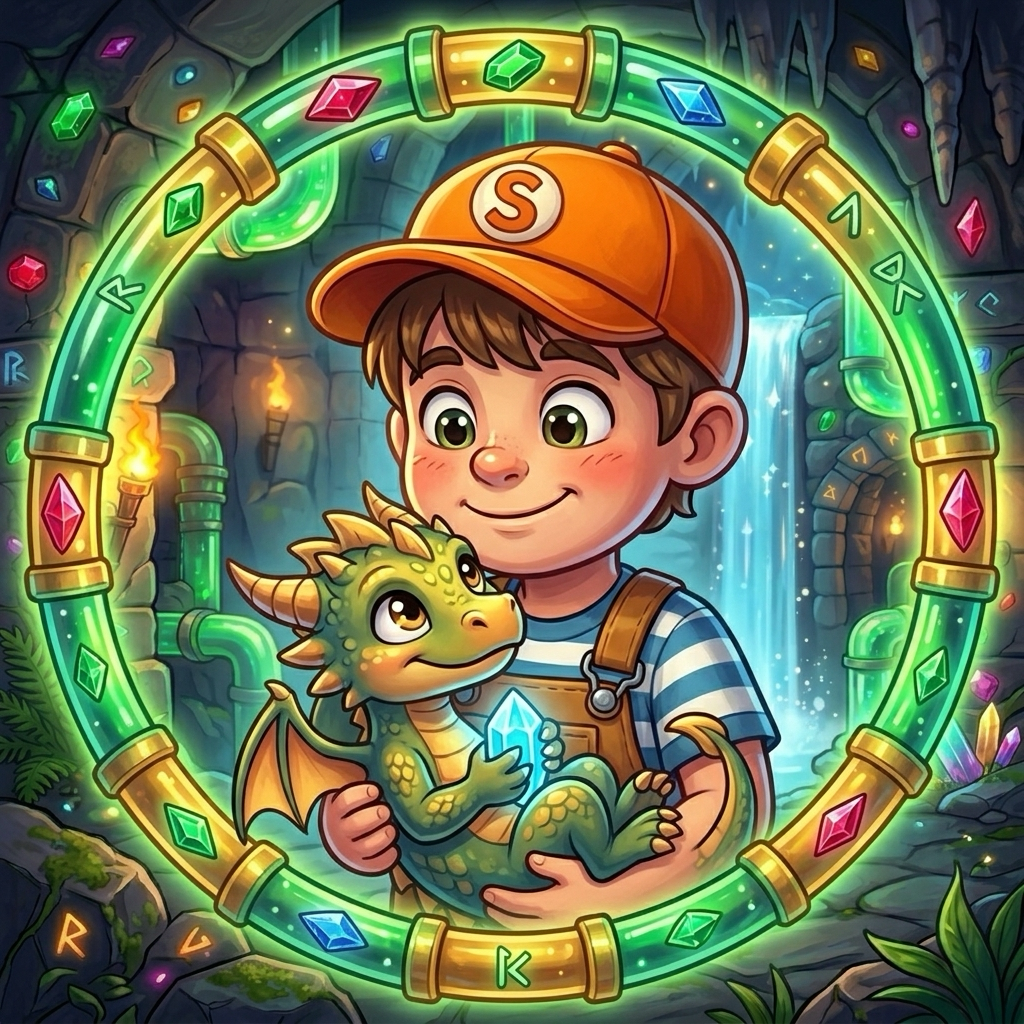
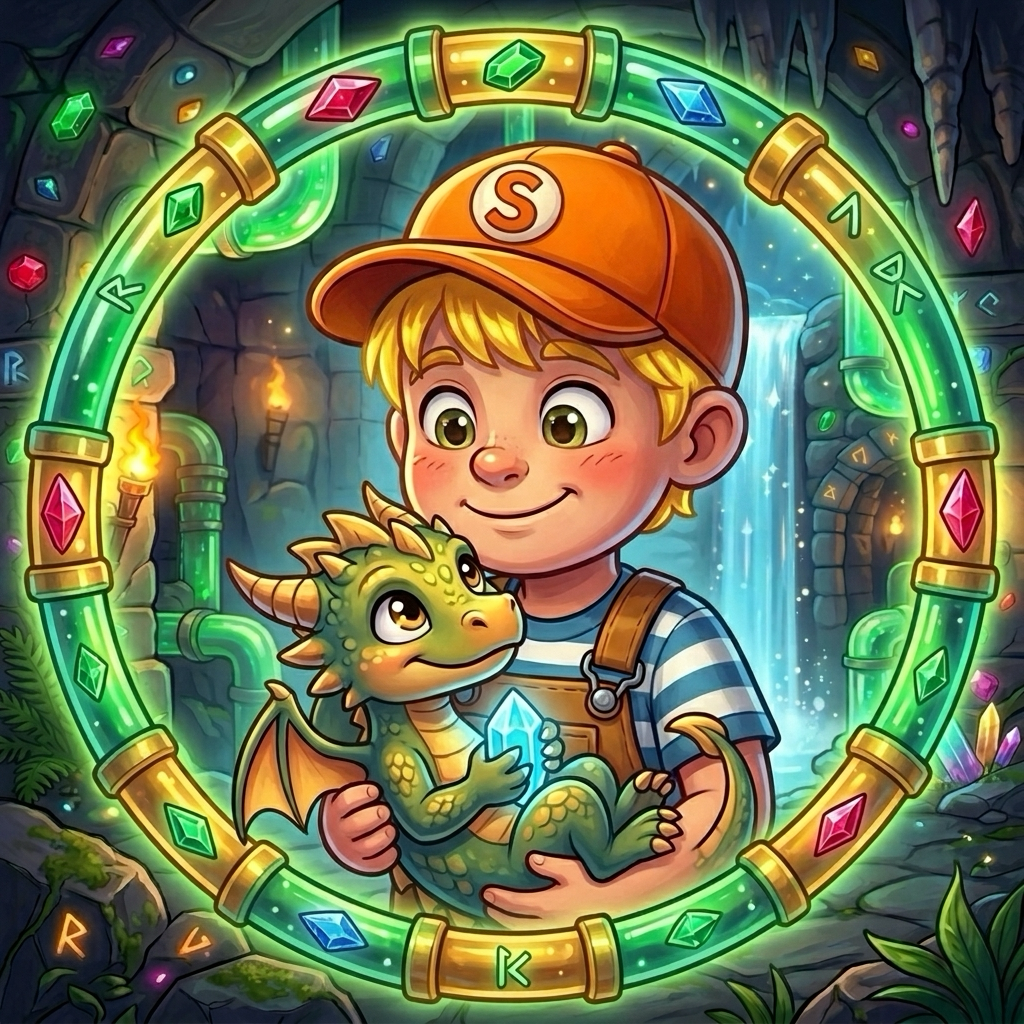
feat(goodies): add new circular badges collection and bump version to 2.8.1

diff --git a/test/logic/goodies_assigner_test.dart b/test/logic/goodies_assigner_test.dart
@@ -6,8 +6,11 @@ import 'package:tubature/models/level.dart';
 
 void main() {
   group('CauldronGoodiesCatalog', () {
-    test('standardGoodies has exactly 8 entries', () {
-      expect(CauldronGoodiesCatalog.standardGoodies.length, 8);
+    test('standardGoodies contains all non-legendary entries', () {
+      expect(CauldronGoodiesCatalog.standardGoodies.length,
+          CauldronGoodiesCatalog.common.length +
+              CauldronGoodiesCatalog.uncommon.length +
+              CauldronGoodiesCatalog.rare.length);
     });
 
     test('legendary has exactly 1 entry (Schmoogle)', () {
@@ -15,8 +18,10 @@ void main() {
       expect(CauldronGoodiesCatalog.legendary.first.id, 'schmoogle');
     });
 
-    test('all has exactly 9 entries', () {
-      expect(CauldronGoodiesCatalog.all.length, 9);
+    test('all matches standardGoodies plus legendary', () {
+      expect(CauldronGoodiesCatalog.all.length,
+          CauldronGoodiesCatalog.standardGoodies.length +
+              CauldronGoodiesCatalog.legendary.length);
     });
   });
 
@@ -42,13 +47,13 @@ void main() {
     });
 
     test('when deadEndCount > standardGoodies.length, wraps around gracefully', () {
-      final goodies = GoodiesAssigner.assignGoodies(10, Difficulty.easy);
-      expect(goodies.length, 10);
+      final goodies = GoodiesAssigner.assignGoodies(25, Difficulty.easy);
+      expect(goodies.length, 25);
       expect(goodies.any((g) => g.isLegendary), isFalse);
     });
 
     test('Schmoogle NEVER appears on Easy or Medium difficulty', () {
-      final random = _FakeRandom(0.005);
+      final random = _FakeRandom(0);
       final easyGoodies = GoodiesAssigner.assignGoodies(5, Difficulty.easy, random: random);
       final mediumGoodies = GoodiesAssigner.assignGoodies(5, Difficulty.medium, random: random);
       
@@ -56,8 +61,10 @@ void main() {
       expect(mediumGoodies.any((g) => g.isLegendary), isFalse);
     });
 
-    test('with seeded Random where value < 0.01, Schmoogle appears on Hard', () {
-      final fakeRandom = _FakeRandom(0.005);
+    test('with seeded Random rolling highest weight index, Schmoogle appears on Hard', () {
+      // Schmoogle is at the end of the pool on Hard mode
+      // Roll sequence: [9999 (hits Schmoogle), 0 (hits ruby), 15 (hits dragon)]
+      final fakeRandom = _SequenceRandom();
       final goodies = GoodiesAssigner.assignGoodies(3, Difficulty.hard, random: fakeRandom);
       
       expect(goodies.any((g) => g.isLegendary), isTrue);
@@ -68,15 +75,36 @@ void main() {
 }
 
 class _FakeRandom implements Random {
-  final double nextDoubleValue;
-  _FakeRandom(this.nextDoubleValue);
+  final int fixedInt;
+  _FakeRandom([this.fixedInt = 0]);
   
   @override
   bool nextBool() => true;
   
   @override
-  double nextDouble() => nextDoubleValue;
+  double nextDouble() => 0.0;
   
   @override
-  int nextInt(int max) => 0; // Always swap with index 0 in shuffle
+  int nextInt(int max) => fixedInt % max;
+}
+
+class _SequenceRandom implements Random {
+  int _idx = 0;
+  
+  @override
+  bool nextBool() => true;
+  
+  @override
+  double nextDouble() => 0.0;
+  
+  @override
+  int nextInt(int max) {
+    if (_idx == 0) {
+      _idx++;
+      return max - 1; // Pick Schmoogle (last element)
+    }
+    final val = (_idx * 15) % max;
+    _idx++;
+    return val;
+  }
 }

diff --git a/lib/models/cauldron_goodies_catalog.dart b/lib/models/cauldron_goodies_catalog.dart
@@ -59,6 +59,34 @@ class CauldronGoodiesCatalog {
       rarity: GoodieRarity.common,
       audioPath: 'assets/sounds/good-quality/maial_basso_5st_fast_b.mp3',
     ),
+    CauldronGoodie(
+      id: 'e-le-fante',
+      assetPath: 'assets/goodies/e-le-fante.png',
+      displayName: 'E-Le-Fante',
+      emoji: '🐘',
+      rarity: GoodieRarity.common,
+    ),
+    CauldronGoodie(
+      id: 'coccodrillo',
+      assetPath: 'assets/goodies/coccodrillo.png',
+      displayName: 'Coccodrillo Chill',
+      emoji: '🐊',
+      rarity: GoodieRarity.common,
+    ),
+    CauldronGoodie(
+      id: 'giraffa',
+      assetPath: 'assets/goodies/giraffa.png',
+      displayName: 'Giraffa Boxer',
+      emoji: '🦒',
+      rarity: GoodieRarity.common,
+    ),
+    CauldronGoodie(
+      id: 'rinoceronte',
+      assetPath: 'assets/goodies/rinoceronte.png',
+      displayName: 'Rinoceronte Cucciolo',
+      emoji: '🦏',
+      rarity: GoodieRarity.common,
+    ),
   ];
 
   // ─── UNCOMMON (weight 5) ───
@@ -75,6 +103,13 @@ class CauldronGoodiesCatalog {
       assetPath: 'assets/goodies/sebi.png',
       displayName: 'Sebi',
       emoji: '👦',
+      rarity: GoodieRarity.uncommon,
+    ),
+    CauldronGoodie(
+      id: 'salama',
+      assetPath: 'assets/goodies/salama.png',
+      displayName: 'Salama da Sugo',
+      emoji: '🧆',
       rarity: GoodieRarity.uncommon,
     ),
     CauldronGoodie(
@@ -95,6 +130,27 @@ class CauldronGoodiesCatalog {
 
   // ─── RARE (weight 2) ───
   static const List<CauldronGoodie> rare = [
+    CauldronGoodie(
+      id: 'acquario',
+      assetPath: 'assets/goodies/acquario.png',
+      displayName: 'Acquario d\'Oro',
+      emoji: '♒',
+      rarity: GoodieRarity.rare,
+    ),
+    CauldronGoodie(
+      id: 'fratelli',
+      assetPath: 'assets/goodies/fratelli.png',
+      displayName: 'Ale & Sebi',
+      emoji: '🫂',
+      rarity: GoodieRarity.rare,
+    ),
+    CauldronGoodie(
+      id: 'tram',
+      assetPath: 'assets/goodies/tram.png',
+      displayName: 'Züri-Tram',
+      emoji: '🚊',
+      rarity: GoodieRarity.rare,
+    ),
     CauldronGoodie(
       id: 'antigravity',
       assetPath: 'assets/goodies/antigravity.png',

diff --git a/lib/logic/game_notifier.dart b/lib/logic/game_notifier.dart
@@ -1,5 +1,4 @@
 import 'dart:convert';
-import 'dart:js_interop';
 
 import 'package:flutter/foundation.dart' show kIsWeb;
 import 'package:flutter_riverpod/flutter_riverpod.dart';
@@ -13,17 +12,11 @@ import '../services/cross_image_service.dart';
 import '../models/cauldron_goodie.dart';
 import '../services/goodies_image_service.dart';
 import 'goodies_assigner.dart';
+import 'js_bridge_stub.dart'
+    if (dart.library.js_interop) 'js_bridge_web.dart' as js_bridge;
 import 'level_generator.dart';
 import 'path_finder.dart';
 import 'win_checker.dart';
-
-/// JS interop: bind to window._tubatureGrid for the automated recorder.
-/// Top-level @JS declarations bind to globalThis (= window in browsers).
-@JS('_tubatureGrid')
-external set _jsTubatureGrid(JSString? value);
-
-@JS('_tubatureReady')
-external set _jsTubatureReady(JSBoolean? value);
 
 class GameState {
   final Level? currentLevel;
@@ -110,7 +103,7 @@ class GameNotifier extends Notifier<GameState> {
   @override
   GameState build() {
     if (kIsWeb) {
-      try { _jsTubatureReady = true.toJS; } catch (_) {}
+      js_bridge.setJsTubatureReady(true);
     }
     return const GameState();
   }
@@ -342,13 +335,9 @@ class GameNotifier extends Notifier<GameState> {
     _setTubatureGrid(data);
   }
 
-  /// Reliably set window._tubatureGrid via @JS top-level setter.
+  /// Reliably set window._tubatureGrid via JS bridge.
   static void _setTubatureGrid(String jsonData) {
-    try {
-      _jsTubatureGrid = jsonData.toJS;
-    } catch (_) {
-      // Silently fail on non-web platforms
-    }
+    js_bridge.setJsTubatureGrid(jsonData);
   }
 }
 

diff --git a/test/logic/goodies_lifecycle_test.dart b/test/logic/goodies_lifecycle_test.dart
@@ -1,4 +1,3 @@
-@TestOn('browser')
 import 'package:flutter_riverpod/flutter_riverpod.dart';
 import 'package:flutter_test/flutter_test.dart';
 import 'package:tubature/logic/game_notifier.dart';
@@ -29,7 +28,7 @@ void main() {
     container.dispose();
   });
 
-  int _countDeadEnds(GameState state) {
+  int countDeadEnds(GameState state) {
     int count = 0;
     for (int r = 0; r < state.grid!.rows; r++) {
       for (int c = 0; c < state.grid!.cols; c++) {
@@ -49,7 +48,7 @@ void main() {
       notifier.startNewGame(Difficulty.easy);
       final state = container.read(gameProvider);
 
-      final deadEndCount = _countDeadEnds(state);
+      final deadEndCount = countDeadEnds(state);
 
       expect(state.ampolleGoodies.isNotEmpty, true,
           reason: 'Goodies should be assigned');
@@ -69,7 +68,7 @@ void main() {
 
       notifier.nextLevel();
       final state = container.read(gameProvider);
-      final deadEndCount = _countDeadEnds(state);
+      final deadEndCount = countDeadEnds(state);
 
       expect(state.ampolleGoodies.isNotEmpty, true,
           reason: 'Level 2 should also have goodies — was empty before fix');

diff --git a/lib/logic/js_bridge_web.dart b/lib/logic/js_bridge_web.dart
@@ -1,0 +1,19 @@
+import 'dart:js_interop';
+
+@JS('_tubatureGrid')
+external set _jsTubatureGrid(JSString? value);
+
+@JS('_tubatureReady')
+external set _jsTubatureReady(JSBoolean? value);
+
+void setJsTubatureGrid(String? jsonData) {
+  try {
+    _jsTubatureGrid = jsonData?.toJS;
+  } catch (_) {}
+}
+
+void setJsTubatureReady(bool value) {
+  try {
+    _jsTubatureReady = value.toJS;
+  } catch (_) {}
+}

diff --git a/lib/version.dart b/lib/version.dart
@@ -1,3 +1,3 @@
 /// App version — update this on every release.
 /// Also update: VERSION, CHANGELOG.md, pubspec.yaml
-const String appVersion = '2.7.2';
+const String appVersion = '2.8.1';

diff --git a/lib/logic/js_bridge_stub.dart b/lib/logic/js_bridge_stub.dart
@@ -1,0 +1,2 @@
+void setJsTubatureGrid(String? jsonData) {}
+void setJsTubatureReady(bool value) {}

diff --git a/CHANGELOG.md b/CHANGELOG.md
@@ -2,6 +2,21 @@
 
 All notable changes to FlowConnect (Tubature) are documented here.
 
+## 2.8.1 — 2026-08-29
+
+### New Goodies & Characters Collection 🧆🚊👦👦🦒🦏🐘🐊♒
+- **8 New Circular Goodie Badges**:
+  - ♒ **Acquario d'Oro** (RARE): Gold Saint Camus of Aquarius with ice crystals and golden sacred armor.
+  - 🫂 **Ale & Sebi** (RARE): Heartwarming brotherly hug in a golden magical runic frame (with Sebi's blonde hair!).
+  - 🚊 **Züri-Tram VBZ** (RARE): Classic 3D blue and white Zurich tramway in an ornate brass porthole.
+  - 🧆 **Salama da Sugo** (UNCOMMON): 1/4 slice of Ferrara's famous salamina on mashed potato purée with silver runic rim.
+  - 👦 **Sebi Biondo** (UNCOMMON): Updated Sebi with golden blonde hair.
+  - 🦒 **Giraffa Boxer** (COMMON): Cute boxing giraffe with French beret saying *"Bonjour!"* (Ale's choice!).
+  - 🦏 **Rinoceronte Cucciolo** (COMMON): Super kawaii baby rhino with sparkling eyes (Seby's choice!).
+  - 🐘 **E-Le-Fante** (COMMON): Joyful baby elephant drinking Tubature Fizzy Orange with bubbles spouting from ears.
+  - 🐊 **Coccodrillo Chill** (COMMON): Relaxing on a deckchair with sunglasses, mojito and peace sign ✌.
+- **Goodie Framing**: All goodies unified into circular brass/pipe porthole badges for ampolla dead-ends.
+
 ## 2.7.2 — 2026-08-26
 
 ### Ferrarese Voices & Image Fix 🎵🖼
